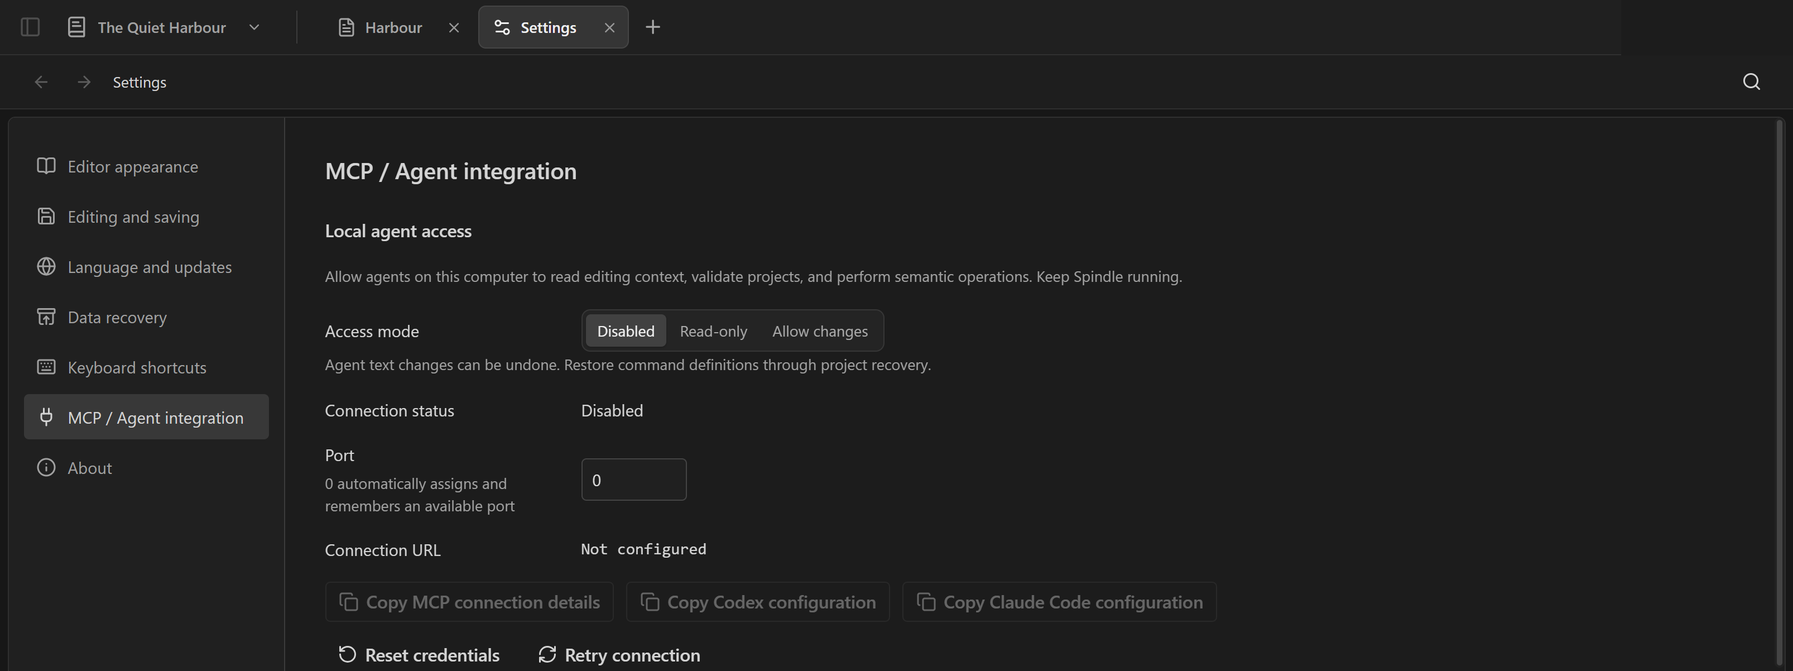
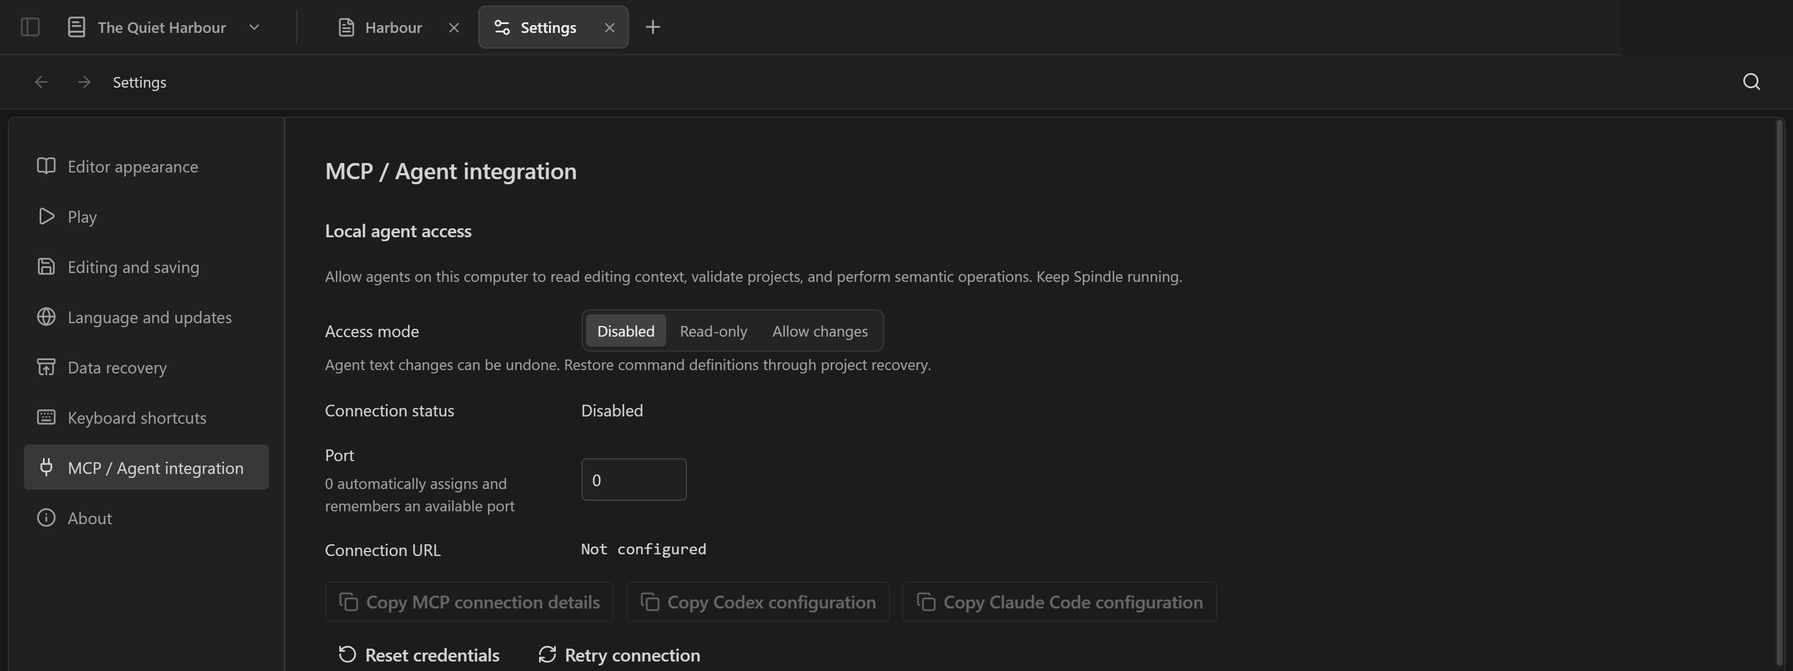
docs: showcase contextual MCP assistance and Play in three languages

diff --git a/README.md b/README.md
@@ -4,17 +4,46 @@
 
 # Spindle
 
-A local-first Yarn Spinner dialogue editor for writers and game developers. Write in source or a reading editor, arrange branches on a flowchart, and connect a local agent through MCP.
+A local-first Yarn Spinner dialogue editor for writers and game developers. Write, follow your branches, play the story—and work with an MCP assistant that understands where you are editing.
 
-[Download Windows x64](https://github.com/RyuuMeow/Spindle/releases) · [Release notes](releases/0.10.0/en.md) · [Report an issue](https://github.com/RyuuMeow/Spindle/issues)
+[Download 0.11.0 · Windows x64](https://github.com/RyuuMeow/Spindle/releases/latest) · [Release notes](releases/0.11.0/en.md) · [Report an issue](https://github.com/RyuuMeow/Spindle/issues)
 
-> Portable and installer builds are unsigned. Review the [verification report](releases/0.10.0/verification.md) before installing.
+> English · 繁體中文 · 简体中文. Windows x64 Portable and installer builds are unsigned; see the [verification report](releases/0.11.0/verification.md).
+
+## An assistant beside your editor
+
+Select a line in Spindle, switch to your agent and ask: **“Rewrite the passage I selected, keeping this character's voice.”** The agent can request the live editor context instead of asking you to paste the passage or describe which file you mean.
+
+Through MCP, a connected agent can read:
+
+- **Your current document and scene**, including its content version.
+- **Your cursor line and column**, nearby source and diagnostics.
+- **Exactly what you selected**, including multiple ranges; the last selection remains available when you switch away from Spindle.
+- **The chosen project and editor window**, so several open projects do not become one ambiguous “current file.”
+
+That context connects to tools for scene/variable queries, script validation, statistics, command registration, file/folder management and version-protected text edits. Ask “Why does this line have a warning?”, “Register the unknown commands in this project”, or “Shorten this selected dialogue.” Text edits go through Spindle's transactions and Undo. Play context can also report the current dialogue, choices and variables; agent playback controls are not yet available.
+
+**You control access.** MCP is off by default. Enable read-only or editing access in **Settings → MCP / Agent integration**, then install the user-level Codex or Claude Code connection and [Spindle Skill](skills/spindle/SKILL.md). Spindle must remain open. Context is fetched when requested; this is not eye tracking or continuous screen capture. Installing the Skill does not change agent approval rules.
+
+[Connect your assistant](docs/mcp.md)
+
+## Play, inspect and return to the source
+
+Open a separate Play window and switch between a scrolling Novel and a two-line VN presentation without restarting the story. Inspect variables, choices and command events, step back, or follow a source link to edit the original line. Each run keeps its captured version while you continue writing.
+
+| Scrolling Novel | VN presentation |
+| --- | --- |
+| ![Novel Play with variable inspection](docs/images/play-novel.png) | ![VN Play](docs/images/play-vn.png) |
+
+Characters support automatic name colors, portraits, sprite variants and backgrounds. Character changes autosave; display switches for the editor and Play are independent. Custom commands can have explicit preview effects, without executing arbitrary game code.
+
+Right-click the editor Play button to choose **Default**, **Current document** or a supported **Current line**. Search the default scene in Settings → Play. The official Yarn Spinner runtime is bundled for offline Windows use—no separate .NET installation is needed. [Play guide and current limits](docs/play.md)
 
 ## Three views of one story
 
 ### Source
 
-Write Yarn directly with completion, diagnostics and quick fixes. Completion includes built-in and project commands with parameter hints; hovering a registered custom command shows its description and signature.
+Write Yarn directly with completion, diagnostics and quick fixes. Completion includes built-in and project commands with parameter hints; hovering a registered custom command shows its description and signature. Variable types, declarations and source navigation work across project files. Diagnostics stay quiet while you type; configurable dialogue-length advice helps keep lines readable.
 
 ![Source command completion](docs/images/source.png)
 
@@ -53,14 +82,6 @@ Compare saved revisions before restoring them.
 Projects keep configuration, history and trash in `.spindle/`. An existing `.yarn` file can also open on its own. A new workspace starts empty.
 
 To explore branches, copy [The Last Light demo project](examples/demo-project/the-last-light/README.md) to a personal folder and open that folder in Spindle. Its three scripts and custom command definitions are not bundled as your default project.
-
-## MCP and Skill
-
-Enable read-only or editing access in **Settings → MCP / Agent integration**, then install a user-level Codex or Claude Code connection and the [Spindle Skill](skills/spindle/SKILL.md). Keep Spindle running. An agent can inspect selections, validate scripts, manage commands and make version-protected edits; Skill installation does not change agent approvals.
-
-![Agent integration](docs/images/agent.png)
-
-[Connection and installation guide](docs/mcp.md)
 
 ## Development and license
 

diff --git a/README.zh-CN.md b/README.zh-CN.md
@@ -4,17 +4,46 @@
 
 # Spindle
 
-以本地数据为核心的 Yarn Spinner 剧本编辑器。使用纯文本或阅读编辑编写对话，在流程图整理故事分支，还能通过 MCP 连接本机 Agent。
+以本地数据为核心的 Yarn Spinner 剧本编辑器。编写、整理分支、试跑故事，还能让 MCP 助手理解你当前正在编辑的位置，陪你一起修改。
 
-[下载 Windows x64](https://github.com/RyuuMeow/Spindle/releases) · [版本说明](releases/0.10.0/zh-CN.md) · [报告问题](https://github.com/RyuuMeow/Spindle/issues)
+[下载 0.11.0 · Windows x64](https://github.com/RyuuMeow/Spindle/releases/latest) · [版本说明](releases/0.11.0/zh-CN.md) · [报告问题](https://github.com/RyuuMeow/Spindle/issues)
 
-> Portable 与安装版尚未签名。安装前请查看[验证报告](releases/0.10.0/verification.md)。
+> English · 繁體中文 · 简体中文。Windows x64 Portable 与安装版未签名，详见[验证报告](releases/0.11.0/verification.md)。
+
+## 像坐在编辑器旁边的助手
+
+在 Spindle 选中一句台词，切到 Agent 说：**“帮我改写刚刚选中的段落，保留这个角色的语气。”** Agent 可以按请求读取实时编辑上下文，不必再请你粘贴内容、解释是哪份文件。
+
+通过 MCP，连接的助手能取得：
+
+- **当前文件与场景**，以及对应的内容版本。
+- **光标所在行、列**，附近原文与诊断。
+- **精确选中内容**，包括多段选区；切到 Agent 后仍保留最后一次选择。
+- **指定项目与编辑器窗口**，同时打开多个项目也能明确选定操作目标。
+
+上下文可接着用于查询场景／变量、检查剧本、统计、注册命令、管理文件／文件夹及版本保护修改。例如：“这行为什么有警告？”“帮这个项目注册未知命令”“把选中的对话缩短。”文本修改经过 Spindle 的事务与 Undo。助手也能读取 Play 的当前台词、选项与变量；尚不提供 Agent 操控播放。
+
+**访问由你决定。** MCP 默认关闭。在“设置 → MCP／Agent 集成”选择只读或允许修改，再安装用户级 Codex／Claude Code 连接与 [Spindle Skill](skills/spindle/SKILL.md)。Spindle 必须保持打开；上下文在请求时获取，不是眼球追踪或持续录制画面。安装 Skill 不会改变 Agent 的批准规则。
+
+[连接你的助手](docs/mcp.zh-CN.md)
+
+## 试跑、查看状态、回到原文
+
+以独立 Play 窗口试跑，在逐行小说与双行 VN 之间切换而不重跑故事。查看变量、选项与指令事件，回到上一步，或定位原文修改。你继续编写时，本轮试跑仍保留启动时的内容版本。
+
+| 逐行小说 | VN 呈现 |
+| --- | --- |
+| ![小说 Play 与变量面板](docs/images/play-novel.png) | ![VN Play](docs/images/play-vn.png) |
+
+角色支持自动姓名配色、头像、立绘变体与背景。角色修改自动保存，编辑器与 Play 的显示开关独立控制。自定义命令可明确设置预览效果，不执行任意游戏程序。
+
+右键点击编辑器 Play 按钮，选择“默认”“当前文件”或支持的“当前行”；在设置 → Play 搜索默认场景。Windows 版内含官方 Yarn Spinner runtime，可离线试跑，无需另装 .NET。[Play 操作与当前范围](docs/play.zh-CN.md)
 
 ## 三种视角，同一份故事
 
 ### 纯文本
 
-直接编写 Yarn，获得补全、诊断与快速修复。补全包含内置和项目自定义命令及参数提示；悬停在已注册的自定义命令上可查看说明和签名。
+直接编写 Yarn，获得补全、诊断与快速修复。补全包含内置和项目自定义命令及参数提示；悬停在已注册的自定义命令上可查看说明和签名。变量类型、声明和来源导航支持跨文件；输入时保持安静诊断，可设置台词长度提醒。
 
 ![纯文本命令补全](docs/images/source.png)
 
@@ -53,14 +82,6 @@
 设置、历史与回收站保存在 `.spindle/`；也可独立打开 `.yarn`。新工作区保持空白。
 
 想体验分支，可将 [The Last Light 示例项目](examples/demo-project/the-last-light/README.md) 复制到个人文件夹后在 Spindle 打开。三份剧本和自定义命令定义不会成为默认项目。
-
-## MCP 与 Skill
-
-在「设置 → MCP／Agent 集成」启用只读或修改权限，再安装用户级 Codex／Claude Code 连接与 [Spindle Skill](skills/spindle/SKILL.md)。Spindle 必须保持运行。Agent 可读取选区、检查剧本、管理命令并执行版本保护修改；安装 Skill 不改变 Agent 批准规则。
-
-![Agent 集成](docs/images/agent.png)
-
-[接入与安装指南](docs/mcp.zh-CN.md)
 
 ## 开发与许可
 

diff --git a/README.zh-TW.md b/README.zh-TW.md
@@ -4,17 +4,46 @@
 
 # Spindle
 
-以本機資料為核心的 Yarn Spinner 劇本編輯器。使用純文字或閱讀編輯撰寫對話，在流程圖整理故事分支，也能透過 MCP 連接本機 Agent。
+以本機資料為核心的 Yarn Spinner 劇本編輯器。撰寫、整理分支、試跑故事，也能讓 MCP 助手理解你目前正在編輯的位置，陪你一起修改。
 
-[下載 Windows x64](https://github.com/RyuuMeow/Spindle/releases) · [版本說明](releases/0.10.0/zh-TW.md) · [回報問題](https://github.com/RyuuMeow/Spindle/issues)
+[下載 0.11.0 · Windows x64](https://github.com/RyuuMeow/Spindle/releases/latest) · [版本說明](releases/0.11.0/zh-TW.md) · [回報問題](https://github.com/RyuuMeow/Spindle/issues)
 
-> Portable 與安裝版尚未簽章。安裝前請參閱[驗證報告](releases/0.10.0/verification.md)。
+> English · 繁體中文 · 简体中文。Windows x64 Portable 與安裝版未簽章，詳見[驗證報告](releases/0.11.0/verification.md)。
+
+## 像坐在編輯器旁邊的助手
+
+在 Spindle 反白一句台詞，切到 Agent 說：**「幫我改寫剛剛反白的段落，保留這個角色的語氣。」** Agent 可以按請求讀取即時編輯情境，不必再請你貼上內容、解釋是哪份文件。
+
+透過 MCP，連線的助手能取得：
+
+- **目前文件與場景**，以及對應的內容版本。
+- **游標所在行、欄**，附近原文與診斷。
+- **精確反白內容**，包含多段選取；切到 Agent 後仍保留最後一次選取。
+- **指定專案與編輯器視窗**，同時開啟多個專案也能明確選定操作目標。
+
+情境可接著用於查詢場景／變數、檢查劇本、統計、註冊指令、管理文件／資料夾及版本保護修改。例如：「這行為什麼有警告？」「幫這個專案註冊未知指令」「把反白的對話縮短。」文字修改經過 Spindle 的交易與 Undo。助手也能讀取 Play 的目前台詞、選項與變數；尚不提供 Agent 操控播放。
+
+**存取由你決定。** MCP 預設停用。在「設定 → MCP／Agent 整合」選擇唯讀或允許修改，再安裝使用者層級的 Codex／Claude Code 連線與 [Spindle Skill](skills/spindle/SKILL.md)。Spindle 必須保持開啟；情境在請求時取得，不是眼球追蹤或持續錄製畫面。安裝 Skill 不會改變 Agent 的批准規則。
+
+[連接你的助手](docs/mcp.zh-TW.md)
+
+## 試跑、查看狀態、回到原文
+
+以獨立 Play 視窗試跑，在逐行小說與雙行 VN 之間切換而不重跑故事。查看變數、選項與指令事件，回到上一步，或定位原文修改。你繼續撰寫時，本輪試跑仍保留啟動時的內容版本。
+
+| 逐行小說 | VN 呈現 |
+| --- | --- |
+| ![小說 Play 與變數面板](docs/images/play-novel.png) | ![VN Play](docs/images/play-vn.png) |
+
+角色支援自動姓名配色、頭貼、立繪變體與背景。角色修改自動保存，編輯器與 Play 的顯示開關獨立控制。自訂指令可明確設定預覽效果，不執行任意遊戲程式。
+
+右鍵點擊編輯器 Play 按鈕，選擇「預設」「目前文件」或支援的「目前行」；在設定 → Play 搜尋預設場景。Windows 版內含官方 Yarn Spinner runtime，可離線試跑，不需另裝 .NET。[Play 操作與目前範圍](docs/play.zh-TW.md)
 
 ## 三種視角，同一份故事
 
 ### 純文字
 
-直接撰寫 Yarn，搭配補全、診斷與快速修正。補全包含內建及專案自訂指令與參數提示；滑鼠移到已註冊的自訂指令可查看說明及簽名。
+直接撰寫 Yarn，搭配補全、診斷與快速修正。補全包含內建及專案自訂指令與參數提示；滑鼠移到已註冊的自訂指令可查看說明及簽名。變數型別、宣告與來源導航支援跨檔案；輸入時保持安靜診斷，可設定台詞長度提醒。
 
 ![純文字指令補全](docs/images/source.png)
 
@@ -53,14 +82,6 @@
 設定、歷史與垃圾桶保存在 `.spindle/`；也能獨立開啟 `.yarn`。新工作區保持空白。
 
 想試用分支，可將 [The Last Light 示範專案](examples/demo-project/the-last-light/README.md) 複製到個人資料夾後在 Spindle 開啟。三份劇本及自訂指令定義不會成為預設專案。
-
-## MCP 與 Skill
-
-在「設定 → MCP／Agent 整合」啟用唯讀或修改存取，再安裝使用者層級的 Codex／Claude Code 連線與 [Spindle Skill](skills/spindle/SKILL.md)。Spindle 須持續執行。Agent 可讀取框選、檢查劇本、管理指令並進行版本保護修改；安裝 Skill 不改變 Agent 批准規則。
-
-![Agent 整合](docs/images/agent.png)
-
-[接入與安裝指南](docs/mcp.zh-TW.md)
 
 ## 開發與授權
 

diff --git a/docs/mcp.md b/docs/mcp.md
@@ -1,6 +1,6 @@
 [English](mcp.md) · [繁體中文](mcp.zh-TW.md) · [简体中文](mcp.zh-CN.md)
 
-> **Play preview (A–D)** — Two read-only Play tools are available in the acceptance build: `list_play_sessions` requires `editorSessionId`; `get_play_context` also requires `playSessionId`. There are 22 tools. Play state is separate from editor selection and includes fixed program versions, current dialogue, choices, variables and bounded recent events. No MCP playback mutation is exposed in A–D. See [Play](play.md).
+> **Play in 0.11.0** — Two read-only Play tools join the existing editor tools: `list_play_sessions` requires `editorSessionId`; `get_play_context` also requires `playSessionId`. There are 22 tools. Play state is separate from editor selection and includes fixed program versions, current dialogue, choices, variables and bounded recent events. MCP playback mutation is not exposed. See [Play](play.md).
 
 # Spindle MCP and agent integration
 
@@ -69,4 +69,4 @@ Text edits use document IDs, expected versions and explicit source ranges. A bat
 
 Common failures include `EDITOR_SESSION_EXPIRED`, `SNAPSHOT_EXPIRED`, `VERSION_CONFLICT`, `INPUT_PENDING`, `MCP_READ_ONLY` and `OPERATION_ID_REUSED`. Re-enumerate an expired target; never redirect a stale ID to another project. The app keeps a limited operation summary without story text. MCP settings and credentials live in the local App profile, not `.spindle` or release assets.
 
-Run `pnpm test:mcp` for SDK/client and version checks; `pnpm test:mcp-ui` uses an isolated desktop profile after `pnpm desktop:stage`. The server exposes 22 tools in the Play acceptance build. Graph layout and pin modification, background editing without Spindle, remote access, Resources and Prompts are outside this version.
+Run `pnpm test:mcp` for SDK/client and version checks; `pnpm test:mcp-ui` uses an isolated desktop profile after `pnpm desktop:stage`. The server exposes 22 tools. Graph layout and pin modification, background editing without Spindle, remote access, Resources and Prompts are outside this version.

diff --git a/docs/mcp.zh-TW.md b/docs/mcp.zh-TW.md
@@ -1,6 +1,6 @@
 [English](mcp.md) · [繁體中文](mcp.zh-TW.md) · [简体中文](mcp.zh-CN.md)
 
-> **Play 試跑 (A–D)** — 驗收版新增兩個唯讀工具：`list_play_sessions` 指定 `editorSessionId`；`get_play_context` 另指定 `playSessionId`，共 22 個工具。Play 情境與編輯器框選分離，包含固定文件版本、目前台詞、選項、變數及有限的近期事件。A–D 不提供 MCP 試跑修改。詳見 [Play](play.zh-TW.md)。
+> **0.11.0 Play 試跑** — 新增兩個唯讀工具：`list_play_sessions` 指定 `editorSessionId`；`get_play_context` 另指定 `playSessionId`，共 22 個工具。Play 情境與編輯器框選分離，包含固定文件版本、目前台詞、選項、變數及有限的近期事件，尚不提供 MCP 試跑修改。詳見 [Play](play.zh-TW.md)。
 
 # Spindle MCP v1
 
@@ -170,6 +170,6 @@ Claude Code 使用前述 JSON 的 `mcpServers`，每個 entry 包含 `type: "htt
 
 官方格式：[Codex MCP](https://learn.chatgpt.com/docs/extend/mcp?surface=cli)、[Codex Skills](https://learn.chatgpt.com/docs/build-skills)、[Claude Code MCP](https://code.claude.com/docs/en/mcp)、[Claude Code Skills](https://code.claude.com/docs/en/skills)。
 
-## 0.10.0 語系及版本
+## 語系及版本
 
-MCP server 與 Agent 安裝資源版本取自 `version.json`。工具名稱、工作階段 ID、snapshot／operation ID、文件識別與錯誤類別不翻譯；介面及診斷說明依本次 App 啟動語言顯示。更新或語言重啟會使執行期間工作階段失效，Agent 必須重新列出工作階段。本驗收版為 22 個工具，預設停用，憑證不包含於發行資源。
+MCP server 與 Agent 安裝資源版本取自 `version.json`。工具名稱、工作階段 ID、snapshot／operation ID、文件識別與錯誤類別不翻譯；介面及診斷說明依本次 App 啟動語言顯示。更新或語言重啟會使執行期間工作階段失效，Agent 必須重新列出工作階段。目前為 22 個工具，預設停用，憑證不包含於發行資源。

diff --git a/docs/releases.md b/docs/releases.md
@@ -17,7 +17,7 @@ Windows signing is optional through `WINDOWS_CSC_LINK` and `WINDOWS_CSC_KEY_PASS
 
 `.github/workflows/verify.yml` runs on PR and main pushes; `release.yml` runs on version tags or manually and creates a **draft** Release with downloadable hash verification. Its Release-writing permission is limited to the publication job. A failed-to-start Actions run caused by account billing/quota is not a test result. Until quota returns, run and record the full local suite and do not require that check on main; retain the triggers for later recovery.
 
-For the 0.10.0 public cut, the original private repository is renamed to `Spindle-private-archive`. A new `RyuuMeow/Spindle` begins private with only the sanitized main history and a newly created `v0.10.0` tag. Back up old refs and assets first. Never rely on GitHub's old-name redirect after reusing the name. Rebuild and upload all new-tag assets, download them back, verify hashes and inspect source/package contents **before** switching visibility. If any pre-public check fails, leave the new repo private and Release as a draft. After publication, verify README, docs, source and downloads without a GitHub credential; protect main against deletion and force pushes, then archive the old private repository read-only. Old 0.10.0 private testers need a manual same-version installation.
+For subsequent versions, use the existing public repository: push the validated commit and matching version tag, create a draft, upload the exact local artifacts, and download them back to verify their hashes before publishing. Verify public notes, source, downloads and update metadata without credentials after publication. The initial repository migration is historical; see the [0.10.0 report](../releases/0.10.0/verification.md).
 
 ## Update boundaries
 

diff --git a/docs/releases.zh-TW.md b/docs/releases.zh-TW.md
@@ -17,7 +17,7 @@ Windows 簽章可透過 `WINDOWS_CSC_LINK` 與 `WINDOWS_CSC_KEY_PASSWORD` 設定
 
 `.github/workflows/verify.yml` 在 PR／main push 觸發；`release.yml` 在版本 tag／手動觸發並建立**草稿** Release，重新下載核對雜湊。寫入 Release 的權限只給發布 job。帳戶額度或付款限制導致 Actions 工作未啟動，不能算測試結果。額度恢復前保留觸發、主分支暫不要求該 check，改以完整本機驗證和紀錄作本輪依據。
 
-0.10.0 公開切換時，先將原私有倉庫改為 `Spindle-private-archive`，再建立全新的私有 `RyuuMeow/Spindle`，只推送整理後 main 與重新建立的 `v0.10.0`。先備份舊 refs／附件；同名倉庫重用後不可依賴 GitHub 舊網址轉址。所有新附件從新 tag 重建、上傳後重新下載，驗證雜湊及來源／封裝內容。公開前檢查若失敗，新倉庫保持私有、Release 保持草稿。公開後以未登入請求驗證 README、文件、來源及下載，保護 main 禁止刪除／強制推送，最後將舊私有倉庫封存唯讀。舊私有 0.10.0 測試者須手動安裝相同版本的新成品。
+後續版本使用現有公開倉庫：推送已驗證的提交及相符版本 tag，建立 Release 草稿，上傳本機成品，重新下載核對雜湊後才發布。發布後以未登入請求驗證說明、來源、下載及更新 metadata。首次倉庫遷移屬於歷史紀錄，見 [0.10.0 報告](../releases/0.10.0/verification.md)。
 
 ## 更新邊界
 

diff --git a/docs/mcp.zh-CN.md b/docs/mcp.zh-CN.md
@@ -1,6 +1,6 @@
 [English](mcp.md) · [繁體中文](mcp.zh-TW.md) · [简体中文](mcp.zh-CN.md)
 
-> **Play 试跑 (A–D)** — 验收版新增两个只读工具：`list_play_sessions` 指定 `editorSessionId`；`get_play_context` 另指定 `playSessionId`，共 22 个工具。Play 情境与编辑器选区分离，包括固定文件版本、当前台词、选项、变量及有限的近期事件。A–D 不提供 MCP 试跑修改。详见 [Play](play.zh-CN.md)。
+> **0.11.0 Play 试跑** — 新增两个只读工具：`list_play_sessions` 指定 `editorSessionId`；`get_play_context` 另指定 `playSessionId`，共 22 个工具。Play 情境与编辑器选区分离，包括固定文件版本、当前台词、选项、变量及有限的近期事件，尚不提供 MCP 试跑修改。详见 [Play](play.zh-CN.md)。
 
 # Spindle MCP 与 Agent 接入
 

diff --git a/docs/play.md b/docs/play.md
@@ -1,8 +1,8 @@
 [English](play.md) · [繁體中文](play.zh-TW.md) · [简体中文](play.zh-CN.md)
 
-# Play preview — acceptance build
+# Play preview
 
-This Windows desktop preview implements A–D plus editor launch modes. It does not change the published 0.10.0 release. Web Play, audio, unrestricted source entry, saved test cases and agent-controlled playback are deferred.
+Available in Spindle 0.11.0 on Windows: Novel/VN playback, characters, runtime inspection, backtracking and editor launch modes. Web Play, audio, unrestricted source entry, saved test cases and agent-controlled playback are deferred.
 
 ## Try a story
 

diff --git a/docs/play.zh-CN.md b/docs/play.zh-CN.md
@@ -1,8 +1,8 @@
 [English](play.md) · [繁體中文](play.zh-TW.md) · [简体中文](play.zh-CN.md)
 
-# Play 试跑：验收版
+# Play 试跑
 
-本版实现 A–D 及编辑器启动模式，不变更已发布的 0.10.0。Web Play、音频、完整来源入口、命名测试与 agent 操控属于后续阶段。
+Spindle 0.11.0 Windows 版提供小说／VN 试跑、角色、运行状态检查、回溯及编辑器开始模式。Web Play、音频、完整来源入口、命名测试与 agent 操控属于后续阶段。
 
 ## 操作
 

diff --git a/docs/play.zh-TW.md b/docs/play.zh-TW.md
@@ -1,8 +1,8 @@
 [English](play.md) · [繁體中文](play.zh-TW.md) · [简体中文](play.zh-CN.md)
 
-# Play 試跑：驗收版
+# Play 試跑
 
-本版實作 A–D 及編輯器啟動模式，不變更已發布的 0.10.0。Web Play、音訊、完整來源入口、命名測試與 agent 操控屬於後續階段。
+Spindle 0.11.0 Windows 版提供小說／VN 試跑、角色、執行狀態檢視、回溯及編輯器開始模式。Web Play、音訊、完整來源入口、命名測試與 agent 操控屬於後續階段。
 
 ## 操作
 
